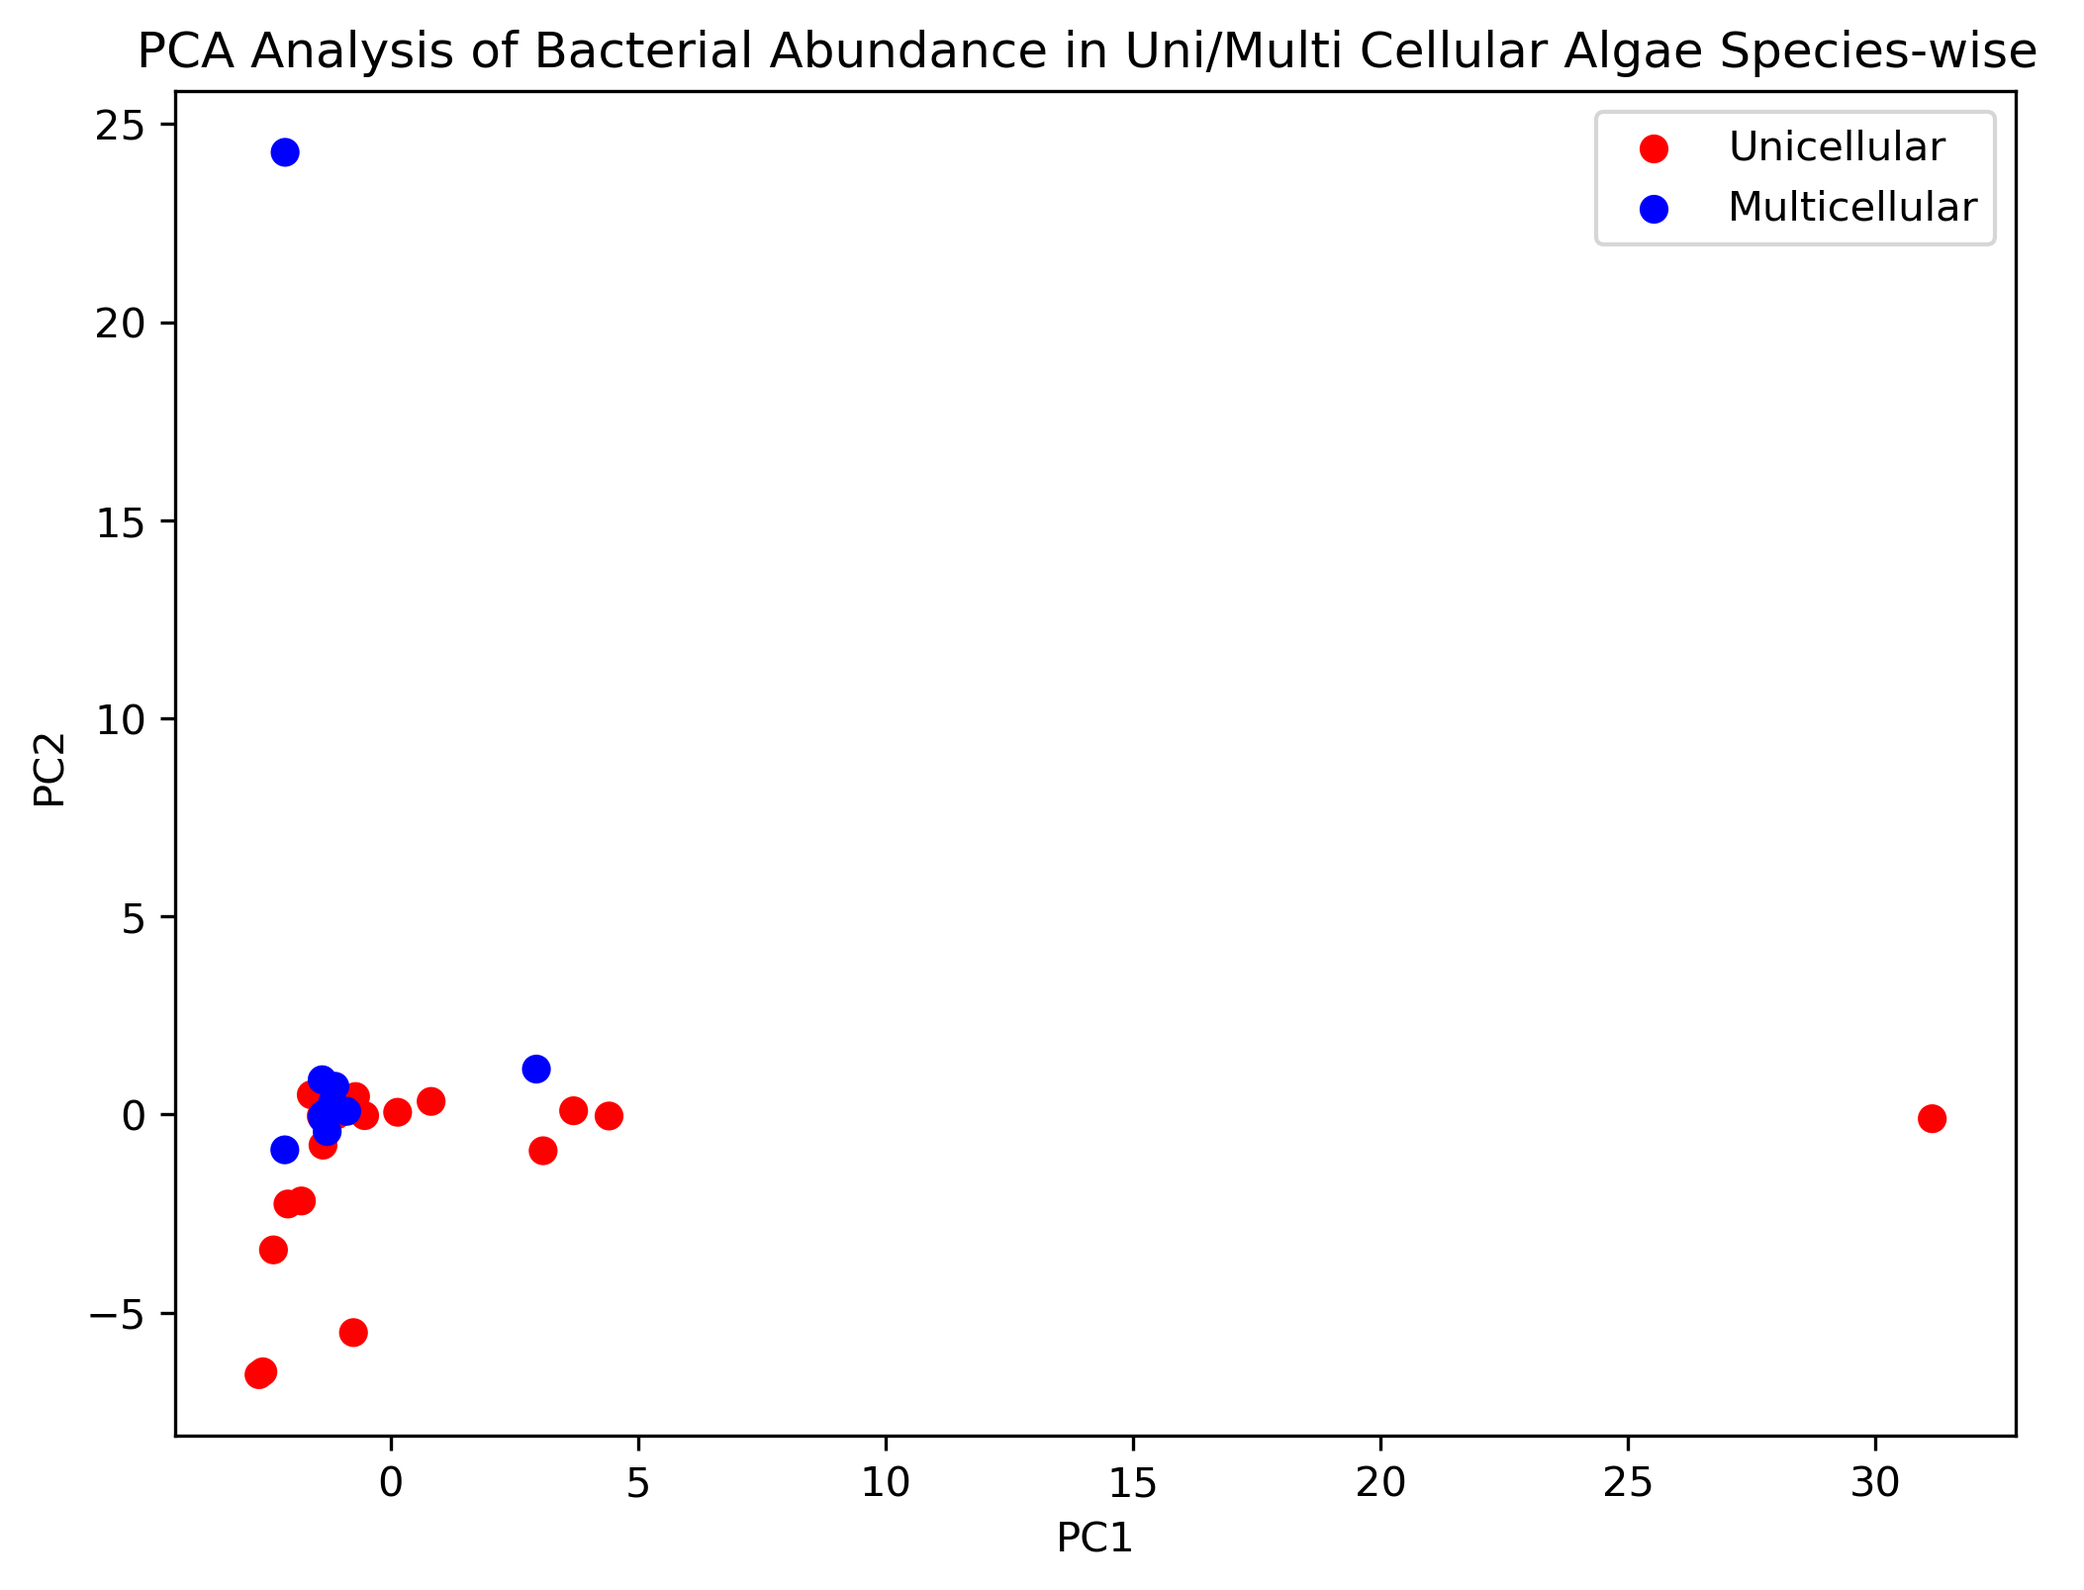
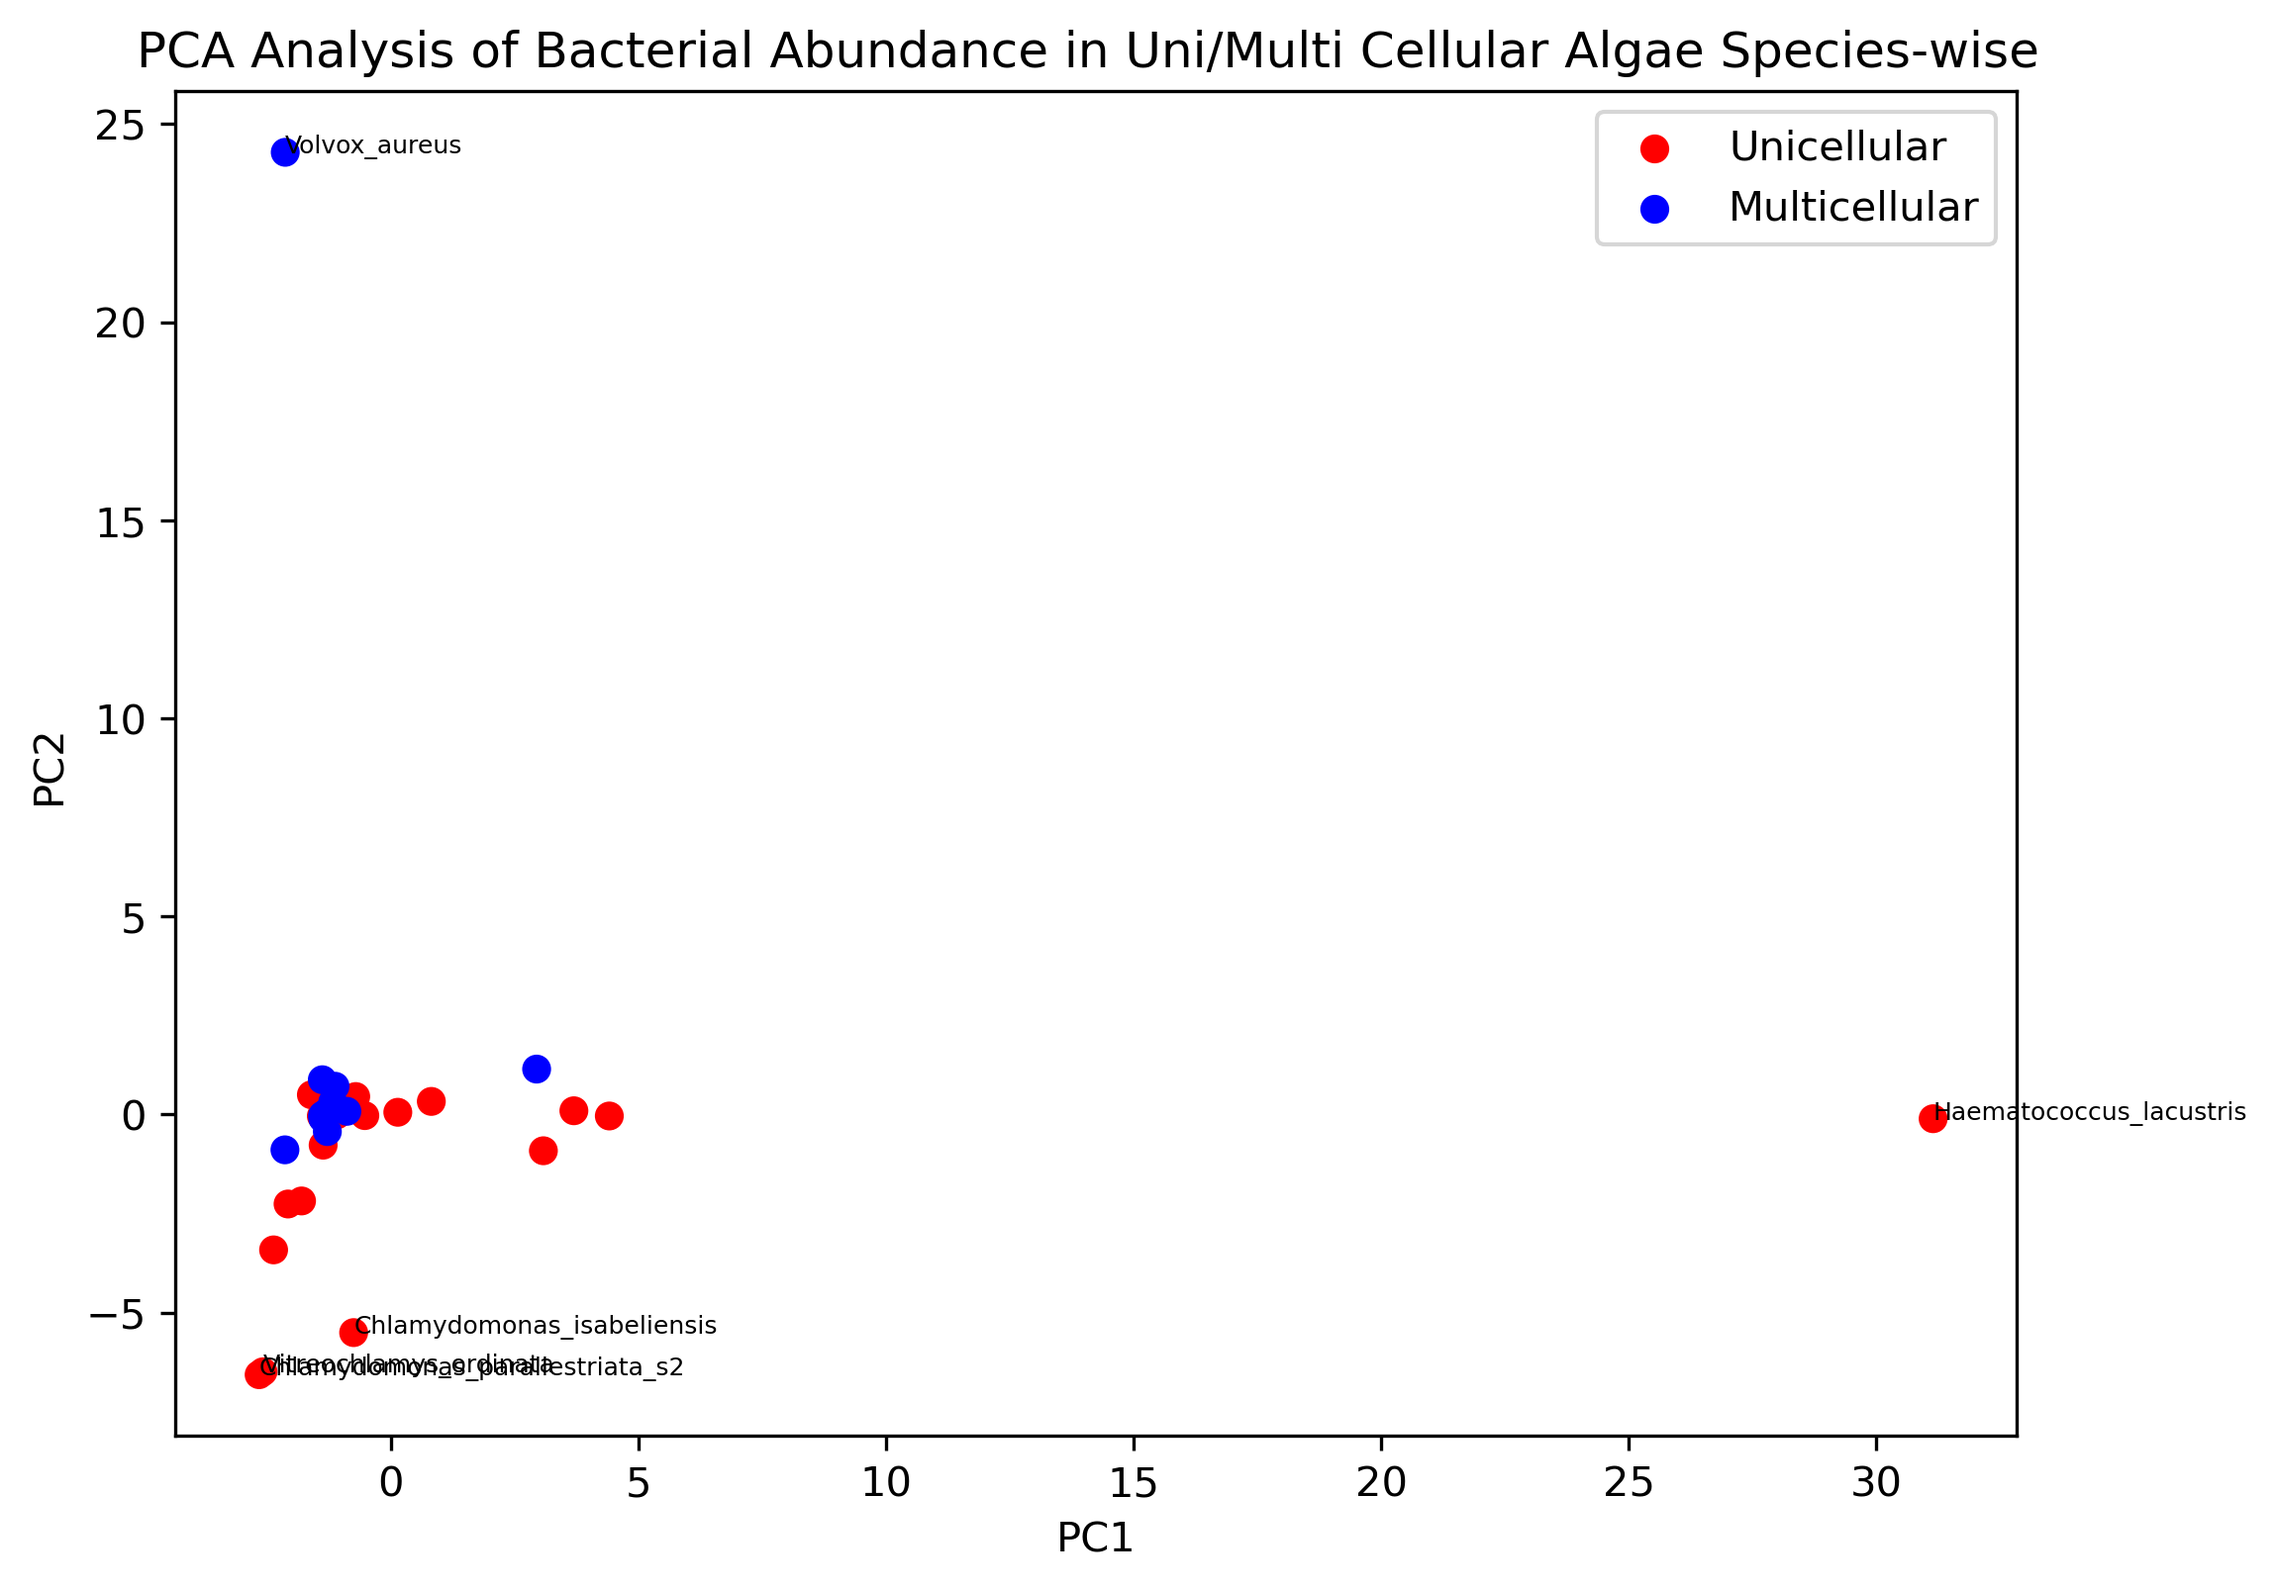
PCA figures enhance

diff --git a/algal_bacteria_metagen_analysis/analysing_overlap/analyze_mapping.py b/algal_bacteria_metagen_analysis/analysing_overlap/analyze_mapping.py
@@ -30,6 +30,7 @@ import matplotlib.pyplot as plt
 from sklearn.decomposition import PCA
 from sklearn.preprocessing import StandardScaler
 from matplotlib import cm
+import numpy as np
 
 RAFile ='/home/tamimftn/Desktop/algae_bac/code/algal_bacteria_metagen_analysis/mapping_results/overlap_RA_Microb_Algae_mapping.tsv'
 algSpFile = '/home/tamimftn/Desktop/algae_bac/code/algal_bacteria_metagen_analysis/spieces.csv'
@@ -205,7 +206,7 @@ def produce_pie_chart(mappingMatrix,aggTaxLevel,algaCellPhen,outDir,colorMap,phy
 # =============================================================================
 # Funcrion perform_pca 
 # =============================================================================
-def perform_pca(matrix,aggTaxLevel,uniCellAlg,multiCellAlg,outDir):
+def perform_pca(matrix,aggTaxLevel,uniCellAlg,multiCellAlg,outDir,figType):
     
     
     #Get relevant data only.
@@ -237,14 +238,23 @@ def perform_pca(matrix,aggTaxLevel,uniCellAlg,multiCellAlg,outDir):
     plt.scatter(pcsDf['PC1'],pcsDf['PC2'],c=colors)
     plt.scatter([], [], c='red', label='Unicellular') 
     plt.scatter([], [], c='blue', label='Multicellular') 
+    
+    outlierThreshold =5
+    # Calculate the distance from the origin for each point 
+    distances = np.sqrt(pcsDf['PC1']**2 + pcsDf['PC2']**2) 
+    # Add species names as text labels for outliers 
+    for species, (x, y), distance in zip(pcsDf.index, pcsDf.values, distances): 
+        if distance > outlierThreshold: 
+            plt.text(x, y, species, fontsize=6)
+    
     plt.legend(loc='upper right')
     plt.xlabel('PC1')
     plt.ylabel('PC2')
-    plt.title('PCA Analysis of Bacterial Abundance in Uni/Multi Cellular Algae '+ aggTaxLevel + '-wise ')
+    plt.title('PCA Analysis of Bacterial '+figType+' in Uni/Multi Cellular Algae '+ aggTaxLevel + '-wise ')
     plt.savefig(outDir+'PCA_BY_'+aggTaxLevel+'.png', format='png', dpi=300, bbox_inches='tight')
     explained_variance = pca.explained_variance_ratio_
     return explained_variance
-#%%
+
 # =============================================================================
 # Generating Figures.
 # =============================================================================
@@ -263,26 +273,27 @@ uniSpecificBacFig = produce_stacked_chart(uniSpecificBac,'Class',algaCellPhenWoC
 bacteriaRAPiChart=produce_pie_chart(bacRAinAlgSamps,'Class',algaCellPhen,outDir=outDir,colorMap=colorMap,phylum=None)
 
 #PCA by species for ORA.
-varRASpecies = perform_pca(bacRAinAlgSamps, 'Species', uniCellAlg, multiCellAlg,outDir=outDir)
+varRASpecies = perform_pca(bacRAinAlgSamps, 'Species', uniCellAlg, multiCellAlg,outDir=outDir,figType='Abundance')
 
 #PCA by Class for ORA.
-varRASpecies = perform_pca(bacRAinAlgSamps, 'Class', uniCellAlg, multiCellAlg,outDir=outDir)
+varRAClass = perform_pca(bacRAinAlgSamps, 'Class', uniCellAlg, multiCellAlg,outDir=outDir,figType='Abundance')
 
 #PCA by species for Detection.
-varDetSpecies = perform_pca(bacDetInAlgSamps, 'Species', uniCellAlg, multiCellAlg,outDir=outDir+'det_')
+varDetSpecies = perform_pca(bacDetInAlgSamps, 'Species', uniCellAlg, multiCellAlg,outDir=outDir+'det_',figType='Presence/Absence')
 
 #PCA by Class for Detection.
-varDetSpecies = perform_pca(bacDetInAlgSamps, 'Class', uniCellAlg, multiCellAlg,outDir=outDir+'det_')
+varDetClass = perform_pca(bacDetInAlgSamps, 'Class', uniCellAlg, multiCellAlg,outDir=outDir+'det_',figType='Presence/Absence')
 
 ##PCA by species for ORA without Chlamydomonas_Callosa
-varRASpeciesWoCall = perform_pca(bacRAinAlgSampsWoCall, 'Species', uniCellAlgWoCall, multiCellAlg,outDir=outDir+'wo_callosa_')
+varRASpeciesWoCall = perform_pca(bacRAinAlgSampsWoCall, 'Species', uniCellAlgWoCall, multiCellAlg,outDir=outDir+'wo_callosa_',figType='Abundance')
 
 ##PCA by species for Det without Chlamydomonas_Callosa
-varDetSpeciesWoCall = perform_pca(bacDetinAlgSampsWoCall, 'Species', uniCellAlgWoCall, multiCellAlg,outDir=outDir+'wo_callosa_det')
+varDetSpeciesWoCall = perform_pca(bacDetinAlgSampsWoCall, 'Species', uniCellAlgWoCall, multiCellAlg,outDir=outDir+'wo_callosa_det',figType='Presence/Absence')
 
 ##PCA by Class for ORA without Chlamydomonas_Callosa
-varRASpeciesWoCall = perform_pca(bacRAinAlgSampsWoCall, 'Class', uniCellAlgWoCall, multiCellAlg,outDir=outDir+'wo_callosa_')
-#%%
+varRAClassWoCall = perform_pca(bacRAinAlgSampsWoCall, 'Class', uniCellAlgWoCall, multiCellAlg,outDir=outDir+'wo_callosa_',figType='Abundance')
+
+#Statistics and most commons.
 totBacSp = len(bacRAinAlgSampsWoCall)
 mostCommon = bacRAinAlgSampsWoCall[bacRAinAlgSampsWoCall['#AlgSpTot'] == max(bacRAinAlgSampsWoCall['#AlgSpTot'])]['Microbial Species'].values[0],max(bacRAinAlgSampsWoCall['#AlgSpTot'])
 mostCommonMult = bacRAinAlgSampsWoCall[bacRAinAlgSampsWoCall['#MultAlgSp'] == max(bacRAinAlgSampsWoCall['#MultAlgSp'])]['Microbial Species'].values[0],max(bacRAinAlgSampsWoCall['#MultAlgSp'])
